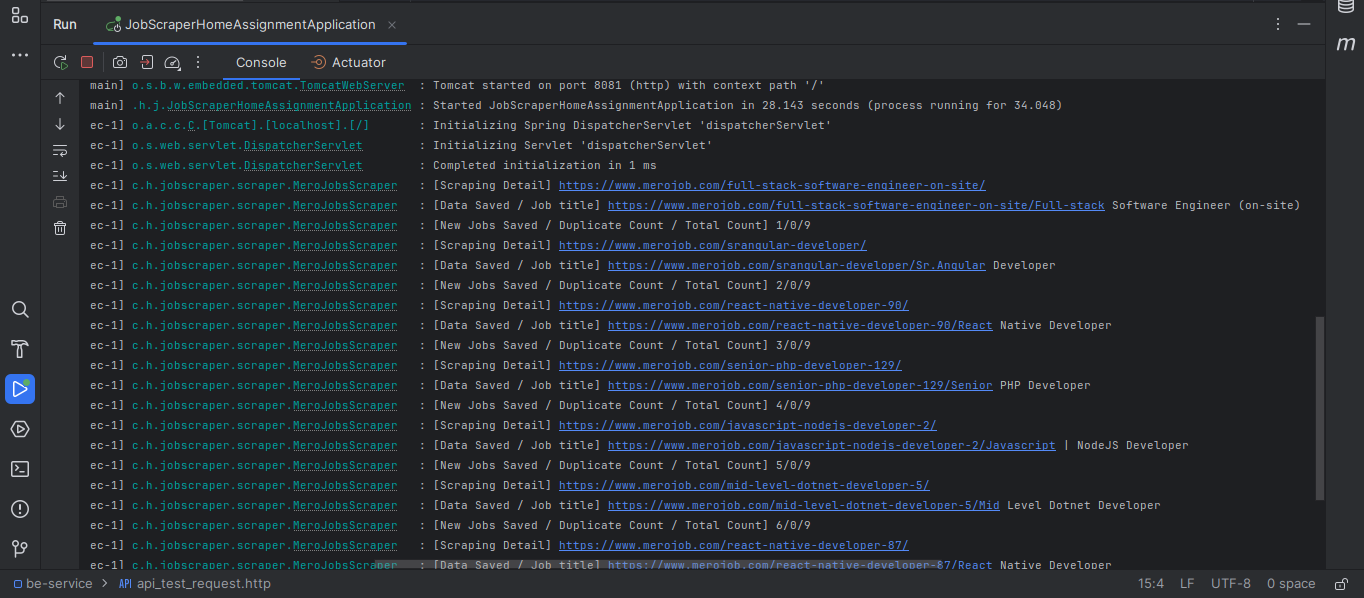
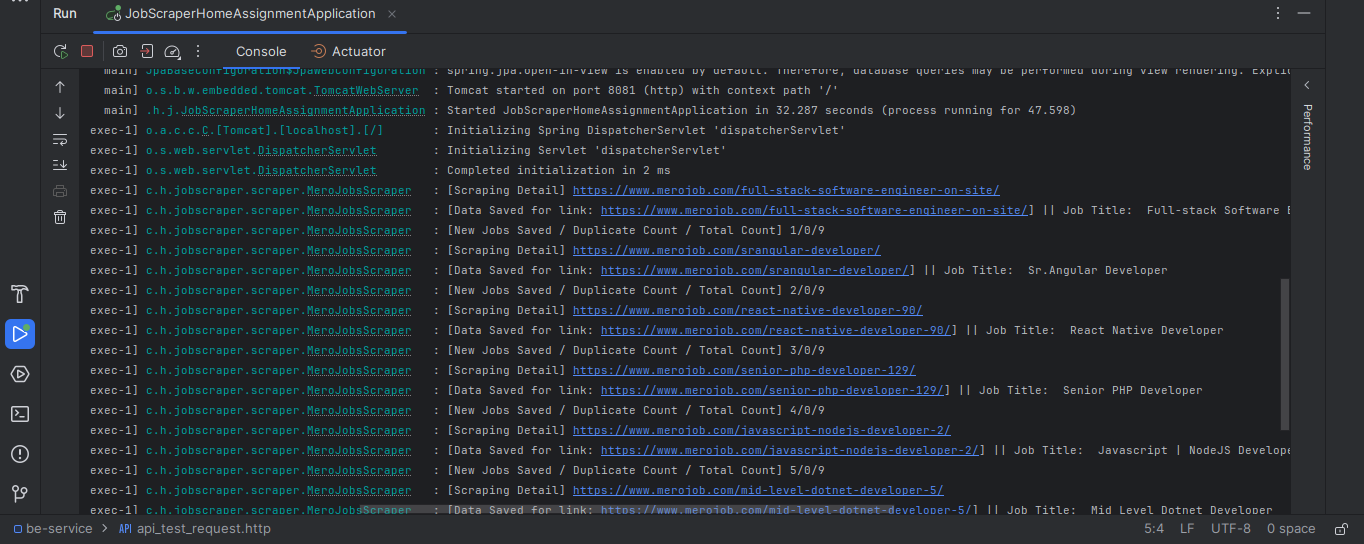
refactor: fixed another typo in the logs and changed image to reflect correct logs in readme

diff --git a/be-service/src/main/java/com/homeassignment/jobscraper/scraper/MeroJobsScraper.java b/be-service/src/main/java/com/homeassignment/jobscraper/scraper/MeroJobsScraper.java
@@ -218,7 +218,7 @@ public class MeroJobsScraper {
             if(!isDuplicate(job)) {
                 Jobs savedJob = jobsService.saveJob(job);
                 savedJobs++;
-                logger.info("[Data Saved / Job title] {}{} ", detailsUrl, savedJob.getJobTitle());
+                logger.info("[Data Saved for link: {}] || Job Title:  {} ", detailsUrl, savedJob.getJobTitle());
             }else{
                 logger.info("[Duplicate Job] {}", detailsUrl);
                 duplicateCount++;
